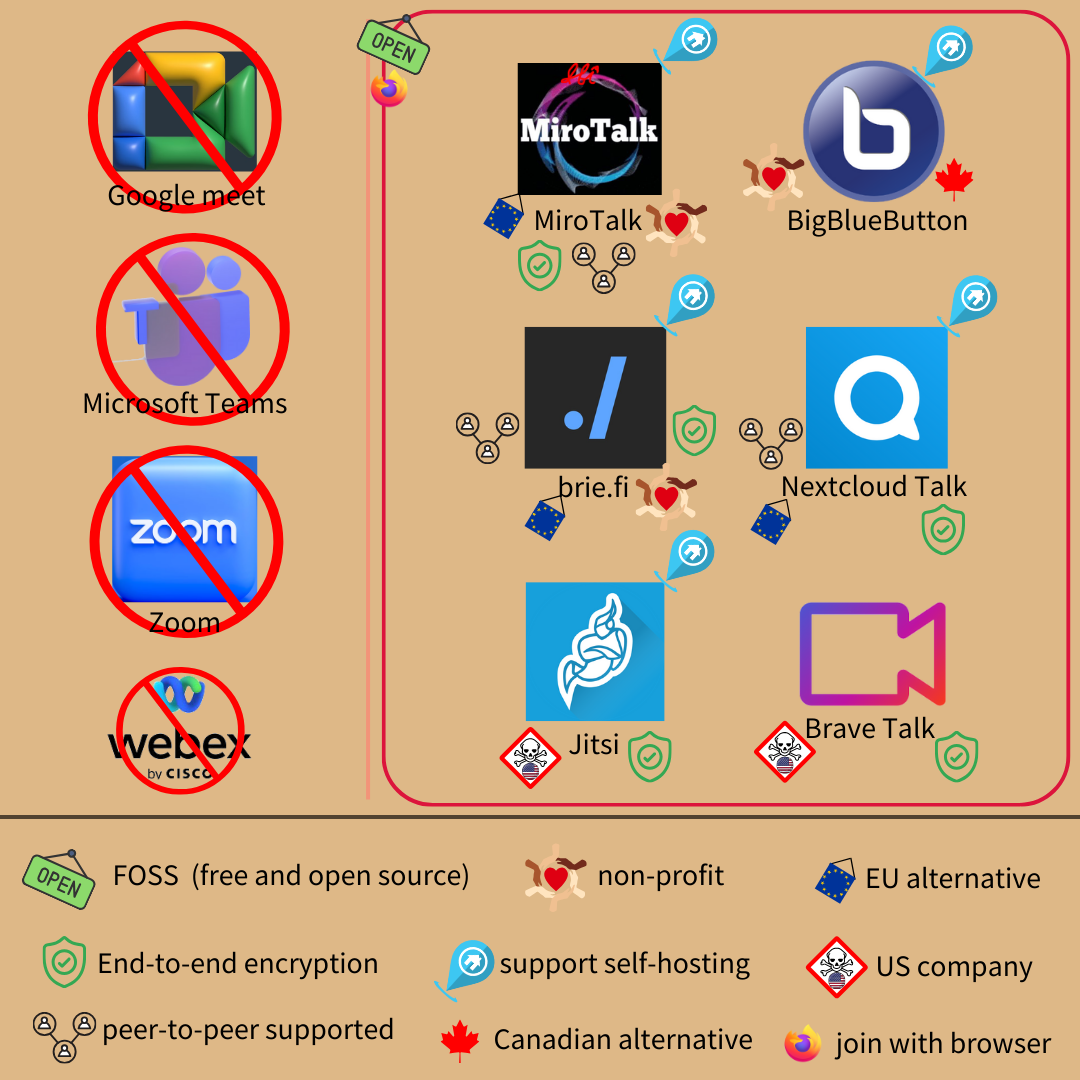
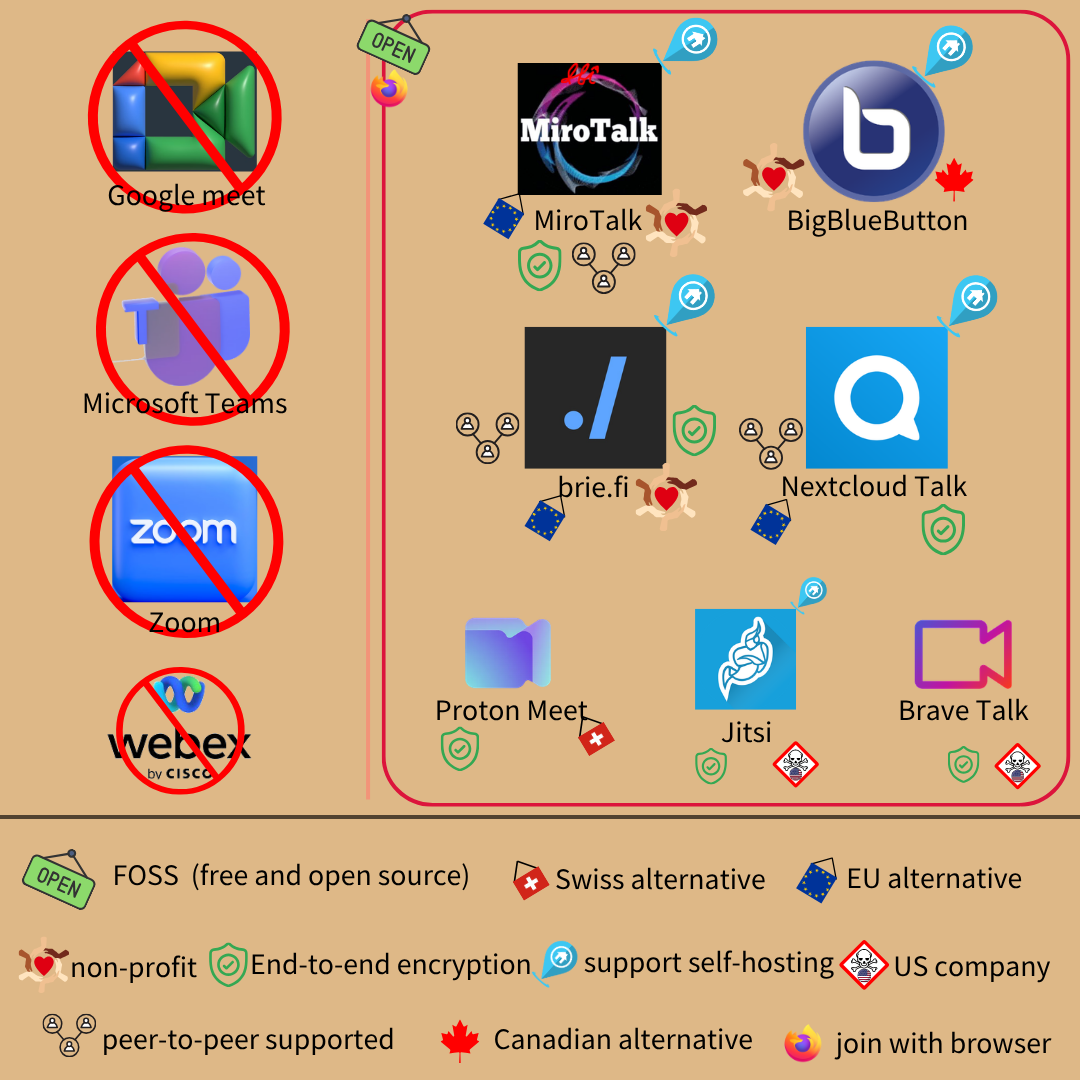
Add Proton Meet to deGoogle-meet.md recommendations
Add Proton Meet as a privacy-focused video conferencing alternative in the recommendations section, including its key features and limitations. Update the selection guide to include Brave Talk for minimalist users and Proton Meet for those preferring existing services.

Changed region(s): [[0.3972, 0.4889, 0.9778, 0.7333], [0.0, 0.7944, 0.9778, 0.9778]]

diff --git a/deGoogle-meet.md b/deGoogle-meet.md
@@ -214,6 +214,16 @@ _# 若自架伺服器，就不擔心資料被偷_
 
 裝置有瀏覽器就能加入會議，各大桌面平台也有 app 可下載 (非必須)  
 
+#### [Proton Meet](https://proton.me/meet)  
+隱私平台 Proton 的產品，前端[開源](https://github.com/ProtonMeet)  
+通訊用 MLS 協議端對端加密，所以伺服器看不到與會者在~~密謀犯案~~做什麼  
+_# 影像、音訊、和聊天室都端對端加密_  
+免費版單次通聯最多一小時、至多 50 人參與，且不必登入就能用 (這會隨商模動態改變)  
+可從手機或電腦應用程式、瀏覽器加入，也能排定在 Proton 月曆的議程中  
+缺點：  
+* 一般訂閱的額度上限，和免費版相同  
+    需額外訂閱此產品，或訂 Workspace 方案才有包含  
+
 #### [Jitsi](https://jitsi.org/)  
 最知名的開源會議軟體，莫過於 Jitsi  
 _# Jitsi 是保加利亞語「電線」之意_  
@@ -297,13 +307,13 @@ Proton (質子科技)也出了 [Proton Meet](https://proton.me/meet)，[開源](
 選擇障礙？  
 可參考以下推薦：  
 * **少數**朋友私下視訊：  
-    * 極簡主義、不想下載軟體 → [MiroTalk](https://p2p.mirotalk.com/newcall) / [brie.fi](https://brie.fi/ng)  
+    * 極簡主義、不想下載軟體 → [MiroTalk](https://p2p.mirotalk.com/newcall) / [brie.fi](https://brie.fi/ng) / [Brave Talk](https://talk.brave.com/)  
     * 開發者，有在玩 Nextcloud → [Nextcloud Talk](https://nextcloud.com/talk/)  
     * 有自己的 [Jitsi](https://jitsi.org/) 伺服器 → [Jitsi](https://jitsi.org/)  
-    * 有裝 Brave 瀏覽器 → [Brave Talk](https://talk.brave.com/)  
 * ~~詐團~~公司 / 機構 / 朋友**多人會議**：  
     * 能自架伺服器 → [Jitsi](https://jitsi.org/) / [Nextcloud Talk](https://nextcloud.com/talk/) / [MiroTalk SFU](https://sfu.mirotalk.com/)  
-    * 若有細緻協作需求 → [BigBlueButton](https://bigbluebutton.org/)  
+        若有細緻協作需求 → [BigBlueButton](https://bigbluebutton.org/)  
+    * 想用現成服務 → [Proton Meet](https://proton.me/meet)
 * 教育機構會議、**線上教學** → [BigBlueButton](https://bigbluebutton.org/)  
 [MiroTalk](https://p2p.mirotalk.com/newcall)、[brie.fi](https://brie.fi/ng)、[Brave Talk](https://talk.brave.com/) 算最簡單的，進官網、點擊發起會議即可  
 若無法自架伺服器，[Jitsi](https://jitsi.org/) 官方登入途徑有隱私疑慮，但操作同樣簡單  
